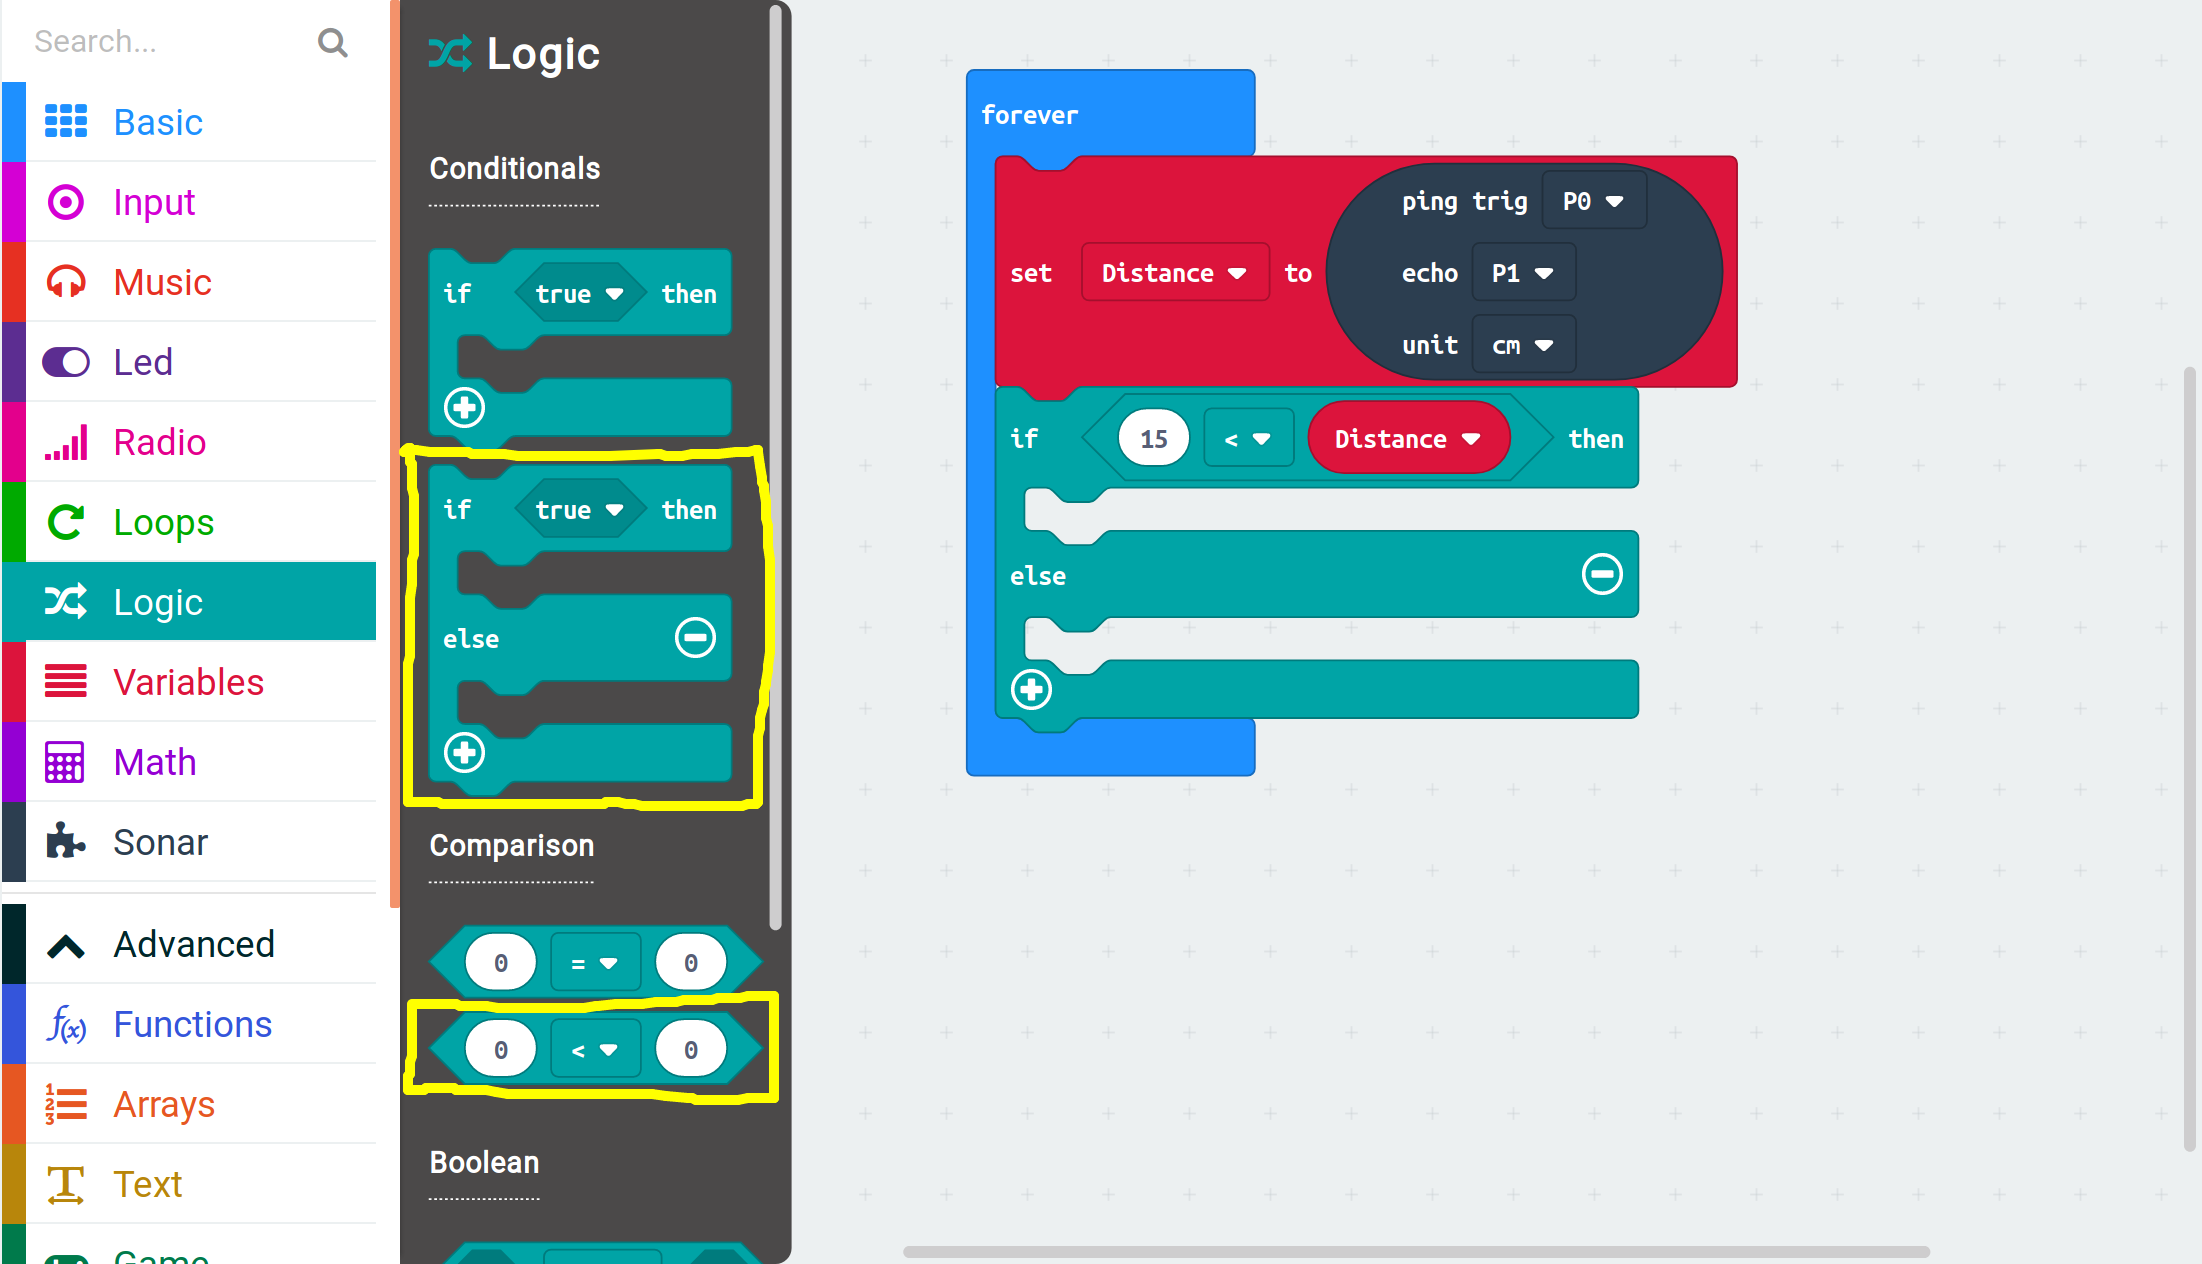
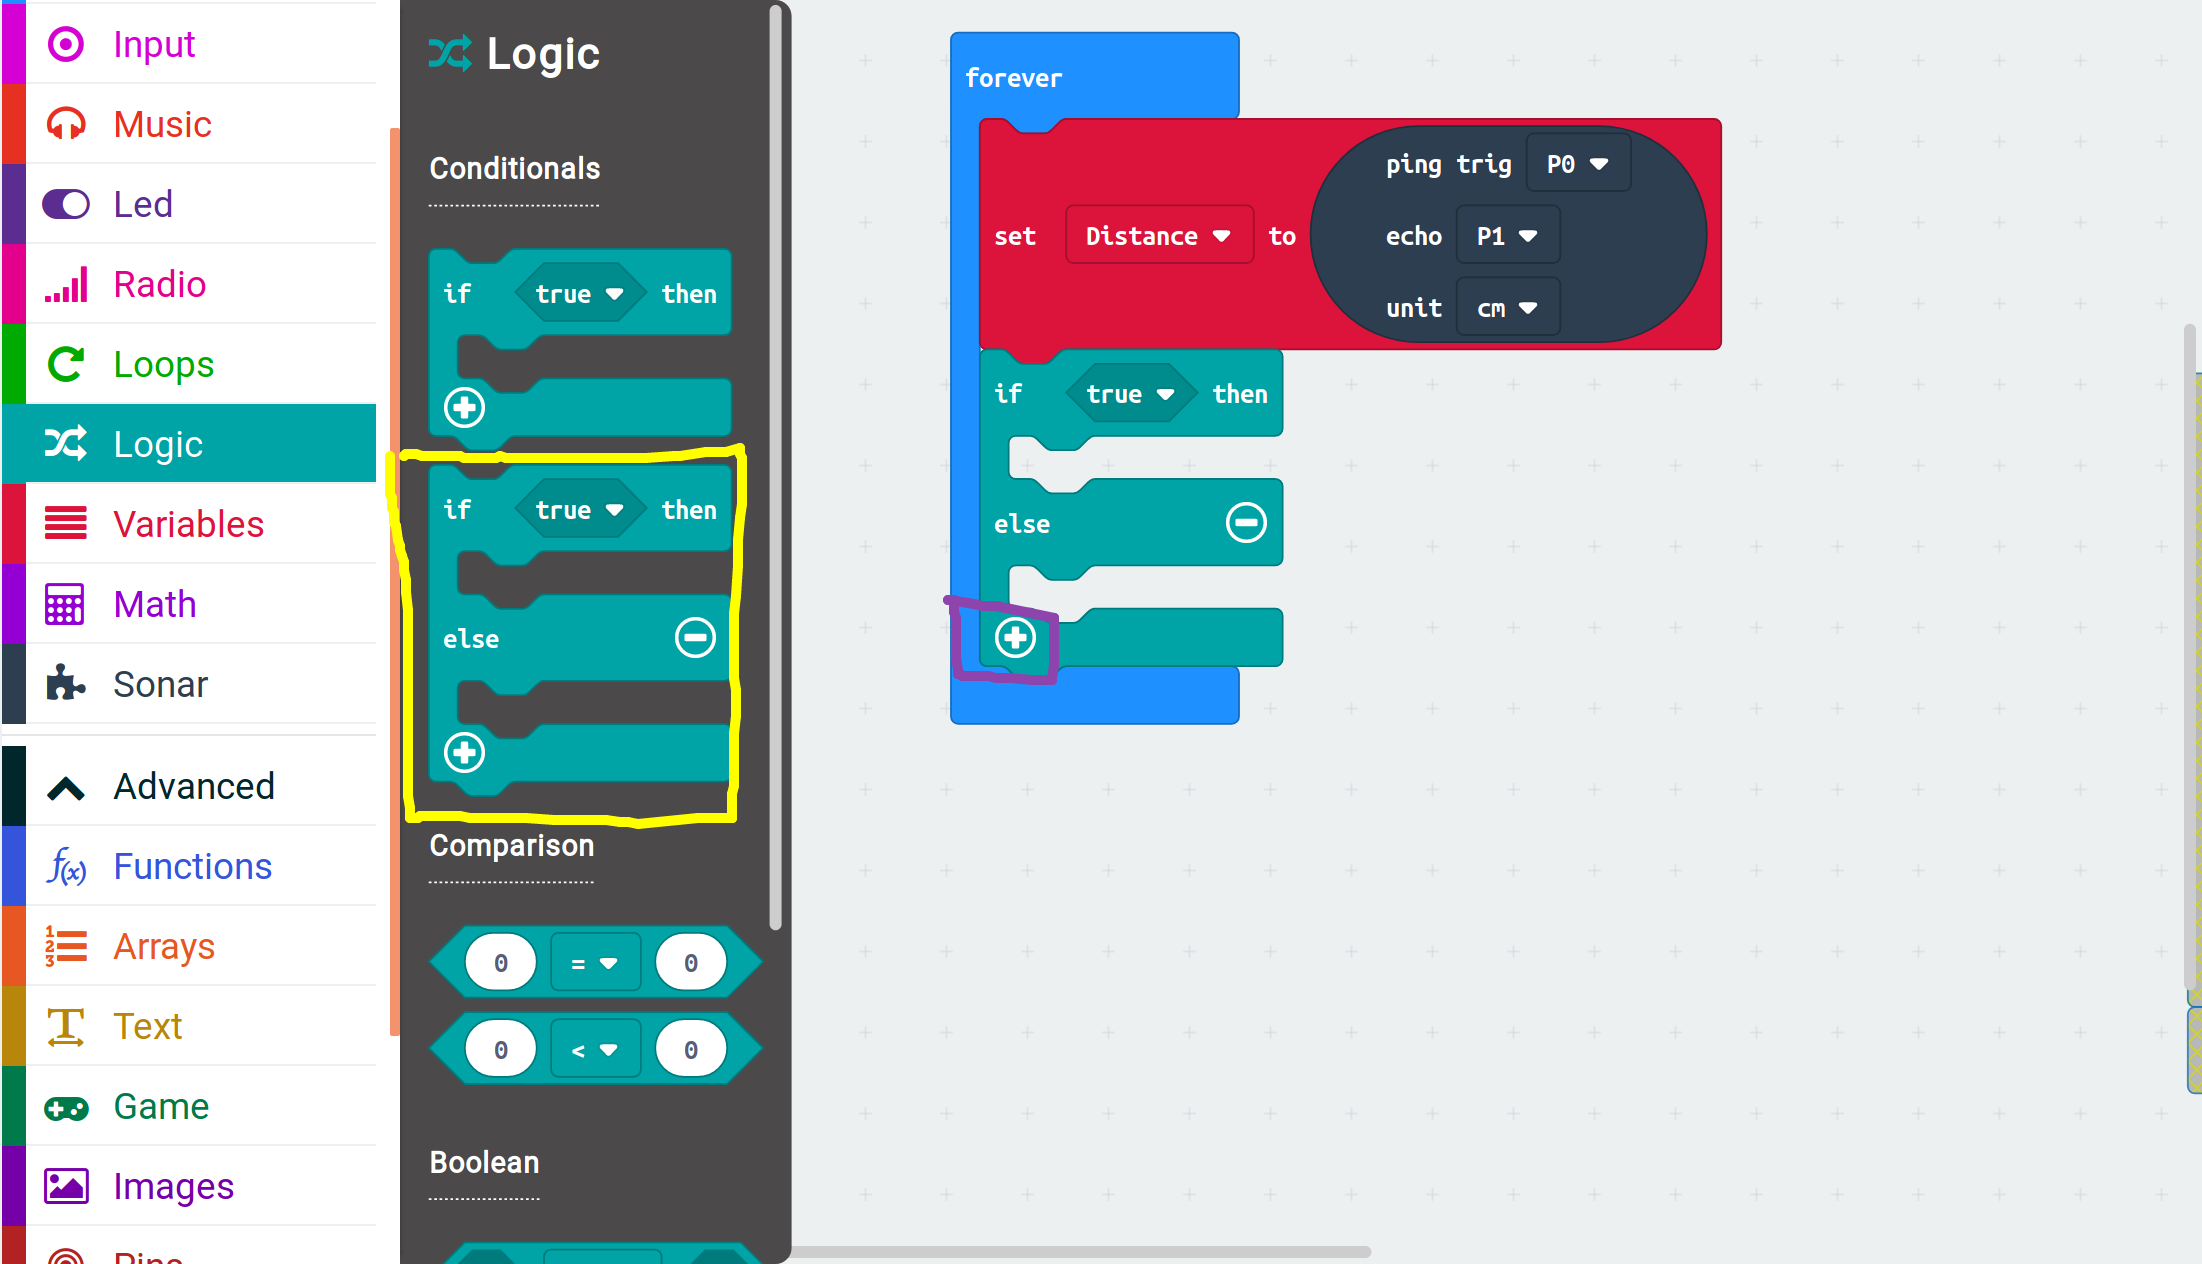
State instruction updates

diff --git a/Traffic-Light-Sensor.md b/Traffic-Light-Sensor.md
@@ -94,16 +94,34 @@ Most traffic lights work by changing to green when it knows a car is approaching
 
 We're going to change our traffic light to green when we know a car less than 15cm away from the sensor, and if it isn't then turn it red.
 
-We need an if..else block, and a comparison block. Both of these can be found inside Logic in your toolbox. 
+We need a new variable to keep track of the "state", so create a new variable called "State".
 
-You can also find the `Distance` block under Variables.
+We need an if..elseif.. block, and a comparison block. To create one, drag across an if..else block, then click the `+` at the bottom and then the second `-`.
 
 ![Instruction 6](/images/MicroBits/Distance-6.png "Instruction 6")
 
 The top section will be tell the other Microbit to turn the traffic lights green, and the bottom section will be to turn them red.
 
-To do this, we're going to send a radio string of either STOP or GO to the other Microbit.
+We need to setup the conditions to test so we know when tell the traffic light to change colour. Follow the image below to set up your conditions correctly.
+
+If you're struggling here then just ask.
 
 ![Instruction 7](/images/MicroBits/Distance-7.png "Instruction 7")
+
+We next fill in the variables and numbers we are testing for.
+
+At the top, we're checking is the "Distance" is less than 15 cm and that the state is not 1.
+
+At the bottom, we're checking that the distance is greater than 15 and that the state is not 2.
+
+![Instruction 8](/images/MicroBits/Distance-8.png "Instruction 8")
+
+Now we just need to tell the traffic lights when to change and to change the state.
+
+Using the `radio send string` block, we are sending "GO" on the top and "STOP" on the bottom.
+
+At the end, add a `pause` block for 1000ms.
+
+![Instruction 9](/images/MicroBits/Distance-9.png "Instruction 9")
 
 Well Done! You've now finished all the code for your distance sensor. If your partner is struggling then make sure to give them a hand.
